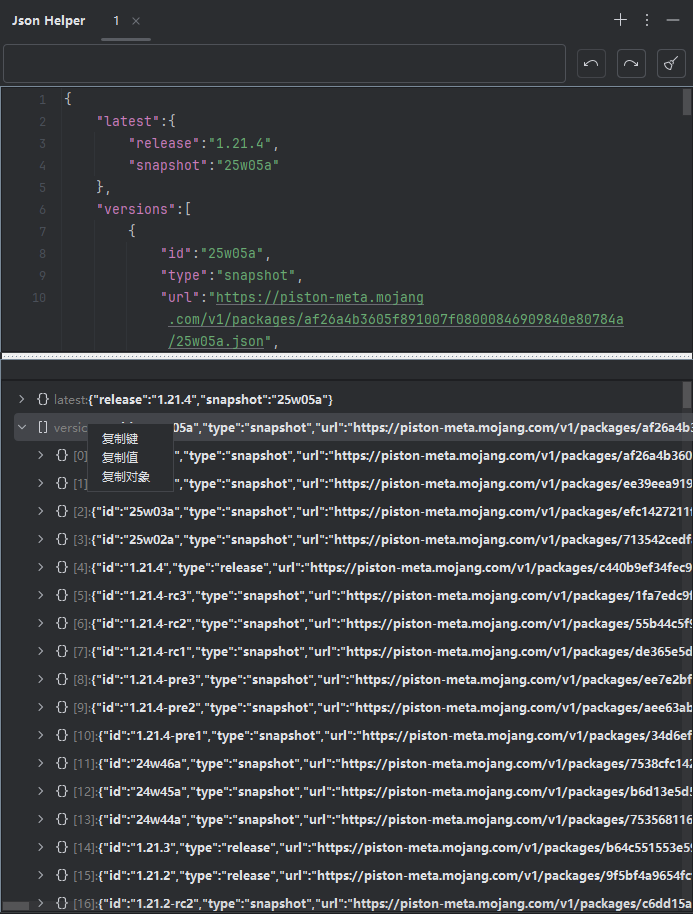
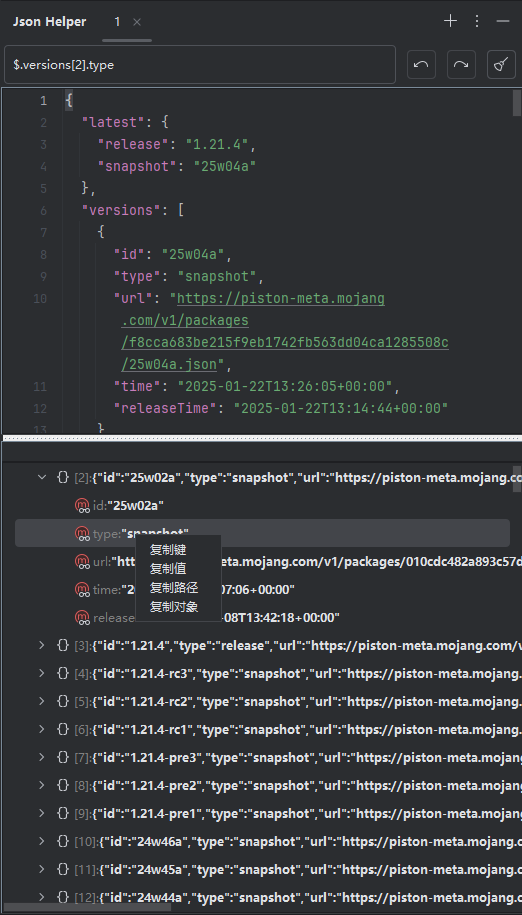
docs: 📖补充 新增功能描述 feat: ✨增加 JSON树面板右键菜单：`复制路径` build: 🔨版本提升 0.7.9.6 -> 0.7.9.8

diff --git a/src/main/java/com/acme/json/helper/ui/panel/JsonTreePanel.java b/src/main/java/com/acme/json/helper/ui/panel/JsonTreePanel.java
@@ -37,6 +37,10 @@ import java.awt.event.MouseEvent;
 import java.util.List;
 import java.util.*;
 import java.util.concurrent.CompletableFuture;
+import java.util.regex.Matcher;
+import java.util.regex.Pattern;
+import java.util.stream.Collectors;
+import java.util.stream.IntStream;
 
 /**
  * JSON树面板
@@ -61,6 +65,8 @@ public class JsonTreePanel extends JPanel {
     private int currentMatchIndex = -1;
     /** 正在搜索 */
     private volatile boolean isSearching = Boolean.FALSE;
+    /** 数组索引模式 */
+    private static final Pattern ARRAY_INDEX_PATTERN = Pattern.compile("^\\[(\\d+)]$");
 
     public JsonTreePanel() {
         super(new BorderLayout());
@@ -224,6 +230,12 @@ public class JsonTreePanel extends JPanel {
                 Opt.ofNullable(tree.getSelectionPath())
                         .ifPresent(path -> Clipboard.copy(getNodeText(path.getLastPathComponent(), 1)))
         );
+        // 复制路径
+        final JMenuItem copyPath = new JMenuItem(BUNDLE.getString("json.tree.copy.path"));
+        copyPath.addActionListener(e ->
+                Opt.ofNullable(tree.getSelectionPath())
+                        .ifPresent(path -> Clipboard.copy(buildJsonPath(path)))
+        );
         // 复制键
         final JMenuItem copyKey = new JMenuItem(BUNDLE.getString("json.tree.copy.key"));
         copyKey.addActionListener(e ->
@@ -238,6 +250,7 @@ public class JsonTreePanel extends JPanel {
         );
         popupMenu.add(copyKey);
         popupMenu.add(copyVal);
+        popupMenu.add(copyPath);
         popupMenu.add(copyItem);
         // 添加鼠标监听器
         tree.addMouseListener(new MouseAdapter() {
@@ -290,6 +303,46 @@ public class JsonTreePanel extends JPanel {
                     .orElse(node.toString());
             case null, default -> Convert.toStr(node);
         };
+    }
+
+    /**
+     * 构建JSON路径
+     *
+     * @param selectionPath 选择的路径
+     * @return {@link String }
+     */
+    private String buildJsonPath(final TreePath selectionPath) {
+        // 从根节点之后开始遍历
+        return IntStream.range(1, selectionPath.getPathCount())
+                // 获取每个路径组件
+                .mapToObj(selectionPath::getPathComponent)
+                // 确保是`DefaultMutableTreeNode`类型
+                .filter(DefaultMutableTreeNode.class::isInstance)
+                // 将对象转换为`DefaultMutableTreeNode`类型
+                .map(DefaultMutableTreeNode.class::cast)
+                // 获取用户选择对象
+                .map(DefaultMutableTreeNode::getUserObject)
+                // 确保是`JsonNodeParser.JsonNode`类型
+                .filter(JsonNodeParser.JsonNode.class::isInstance)
+                // 将对象转换为`JsonNodeParser.JsonNode`类型
+                .map(JsonNodeParser.JsonNode.class::cast)
+                // 获取键
+                .map(JsonNodeParser.JsonNode::key)
+                // 过滤掉空的键字符串
+                .filter(StrUtil::isNotEmpty)
+                // 组合各节点的路径表达式
+                .map(key ->
+                        // 匹配数组索引模式
+                        Opt.ofNullable(ARRAY_INDEX_PATTERN.matcher(key))
+                                // 检查是否匹配成功
+                                .filter(Matcher::matches)
+                                // 格式化数组索引
+                                .map(item -> "[%d]".formatted(Convert.toInt(item.group(1))))
+                                // 格式化普通键值
+                                .orElseGet(() -> ".%s".formatted(key))
+                )
+                // 将所有部分连接成最终的 JSON 路径字符串
+                .collect(Collectors.joining("", "$", ""));
     }
 
     /**
